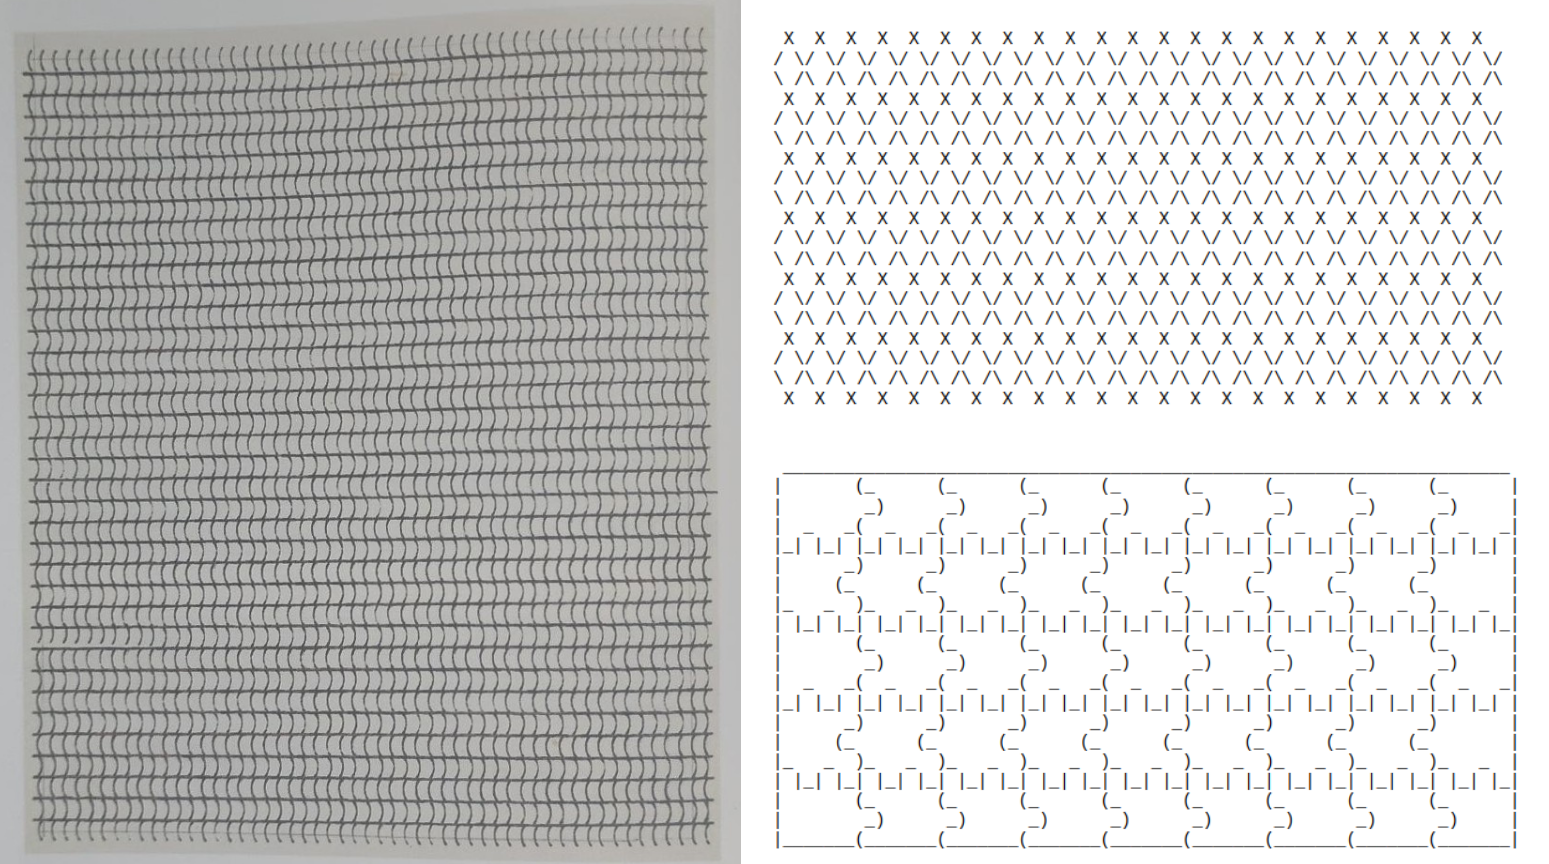
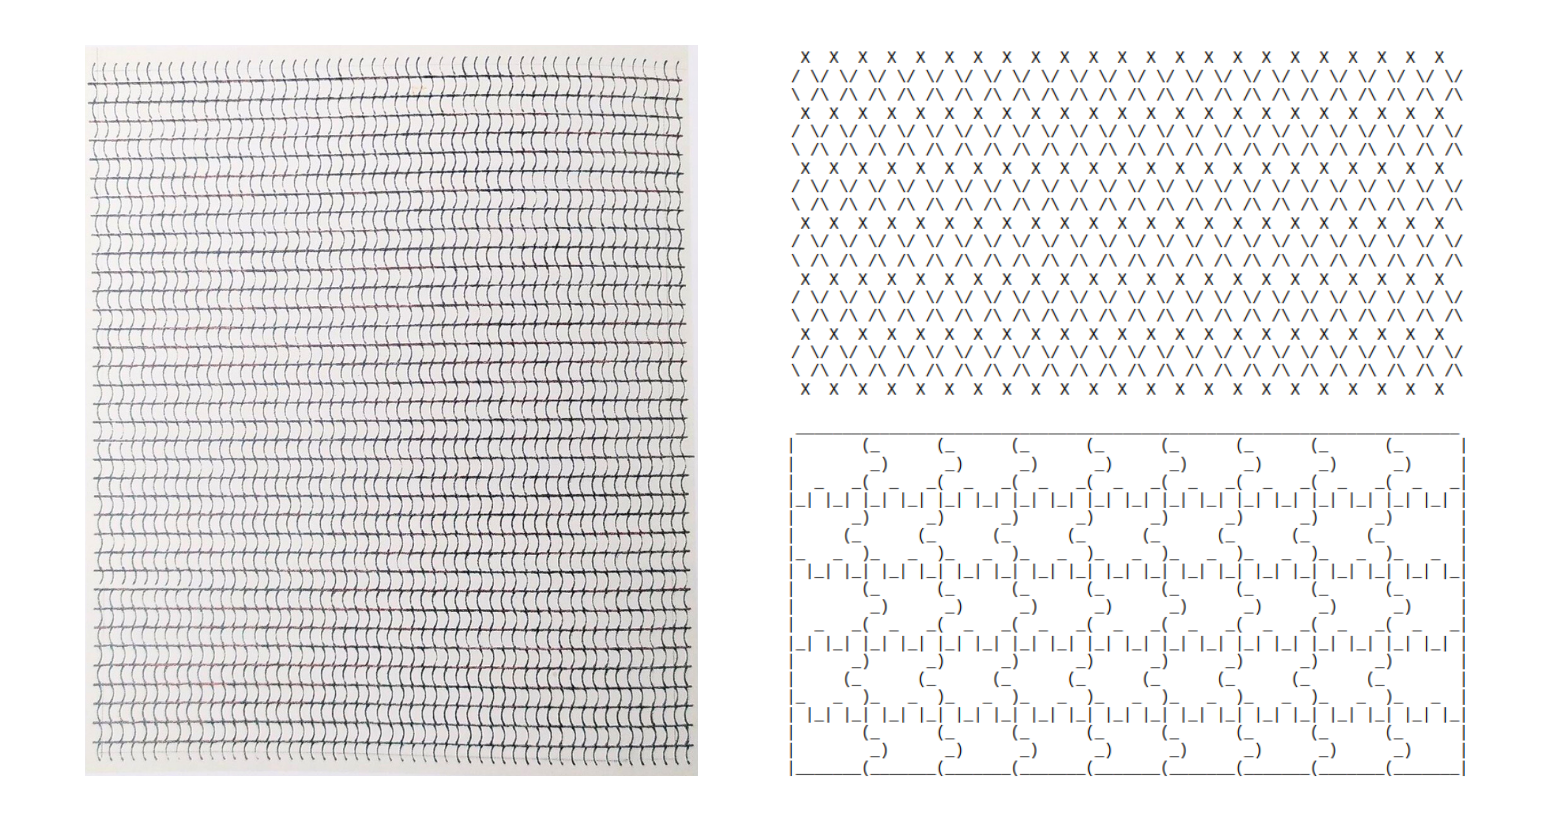
gestion corrections et figures

diff --git a/exSynth/cadreTheorique.md b/exSynth/cadreTheorique.md
@@ -1,0 +1,59 @@
+
+
+# Cadre théorique
+
+Le cadre théorique que j’emploierai pour penser l’artisanat comme une technologie et la technologie comme une forme d’artisanat est centré sur la pensée textile d’Anni Albers ([Annexe 2: à propos d’Anni Albers](#anni-albers)). Publié pour la première fois en 1965, son éloquent essai intitulé *Du tissage* se situe à la charnière entre l’artisanat manuel et la fabrication mécanisée (*between handcraft and the machine-made*, [Princeteon university press 2017, s.p.](https://press.princeton.edu/books/hardcover/9780691177854/on-weaving)). Contrairement aux méthodes à un fil comme le tricot ou le crochet, le tissage nécessite un appareillage plus complexe : le métier à tisser. L’instrumentation de la création est un enjeu fondamental dans le tissage. Définie comme une « discipline artistique qui permet d’appréhender l’interrelation entre médium et processus à l’origine de la forme » (Albers 2021 [1965], 19), le tissage aide donc à réfléchir aux enjeux techniques et matériels de la création. La création avec un métier à tisser s’apparente à la création algorithmique pour plusieurs raisons.
+
+Tout d’abord, ce lien provient de la filiation directe entre le métier à tisser et l’ordinateur. « *The loom is the vangard site of software development* » (Plant 1995: 46). En tant que dispositif technique qui gère des centaines voire des milliers de fils et leur entrecroisement, le métier à tisser « gère des données » depuis que l’humanité pratique le tissage, c’est-à-dire depuis 4500 ans, ou même 8000ans selon les estimations (Albers 2021 [1965], 21). Ce n’est pas à proprement parler l’automatisation du métier à tisser qui en fait l’ancêtre de l’ordinateur, mais la capacité à le programmer, dans le cas du métier Jacquard, par le biais de cartes perforées. On parvient ainsi à appliquer cette puissance de calcul (le *hardware*) à n’importe quel programme (*software*) – qu’il s’agisse de tisser un motif floral avec un métier à tisser ou un motif algébrique avec la machine analytique (Lovelace citée dans <!--citée par Morrisson et Morrisson, cités dans Plant 1995: 50-->). En effet, le métier à tisser et l’ordinateur suivent le même procédé technique pour former une image. Que ce soit en définissant le pixel ou le croisement entre la chaîne et la trame, les deux dispositifs construisent une image point par point. En tant que non-tisserande, la lecture d’Anni Albers m’a révélé à quel point « les œuvres tissées sont des espaces de règles, de codes, et d’information. Elles procèdent en réalité d’opérations logiques répétées, de processus structurels, et relèvent tout autant d’une pratique d’ingénierie mécanique que du domaine artistique. » (Soulard 2021, 260). 
+
+*figure*
+
+Les diagramme de notations (figure **XX**) attestent de la logique binaire du métier à tisser. « Le diagramme permet au tisserand d’encoder et de décoder (ou de consigner et de lire) le processus de fabrication » (Smith 2021, 251). On comprend ainsi que le·a tisserand·e produit des « images programmées » (Soulard 2021, 260). L’ « analyse empirique du médium » (Smith 2021, 247) du tissage effectuée par Anni Albers s’étend ainsi aux fondamentaux de l’informatique et elle s’avère précieuse pour penser les pratiques algorithmiques (Soulard 2021, 268).
+
+Ensuite, en termes de démarche artistique, ce lien entre les « images programmées » et la création algorithmique est facilitée en prenant en considération le travail de Vera Molnar ([Annexe : à propos de Vera Molnar](#vera-molnar)). Une génération après Anni Albers, Vera Molnar participe elle aussi « à ce jeu de va-et-vient permanent entre une pratique manuelle, presque artisanale, et une utilisation opportuniste de l’outil technologique » (Grasser-Fulchéri et Bouiller 2021, 8). Face au coût d’accès à un véritable ordinateur dans les années 1960, Vera Molnar emploie une méthode expérimentale qu’elle nomme « machine imaginaire » pour simuler la création avec une machine.
+
+> Sa] démarche esthétique […], à l’instar de la démarche scientifique, se fonde sur cette notion de « prévision », dont son usage du protocole programmatique à l’aide de la « machine imaginaire » est l’expression la plus convaincante puisque programmer, c’est « prévoir » les éventualités d’apparition des formes avant même de pouvoir les « voir ».
+>
+> (Baby 2021, 45). 
+
+Vera Molnar est également l’autrice d’un court essai intitulé *Éloge de l’ordinateur (dans les arts visuels)* daté de 1984. Ce dernier se rapproche d’une philosophie de l’art qui distingue les peintres de « coloration spiritualiste » des « matérialistes » selon leur attitude envers l’outillage et la partie technique de leur travail. Elle en vient ainsi à décrire sa démarche de création, se rangeant du côté des matérialistes, « [des] créateurs […] à considérer comme des chercheurs qui appréhendent leur art en tant qu’une des sciences humaines » (Molnar 1984, 2). Ainsi, Anni Albers et Vera Molnar théorisent, chacune à leur façon, le « faire » et, plus particulièrement, exposent les liens entre contraintes et libertés posées par la technicité dans leur processus de création. Elles se rapprochent toutes deux du modèle de « l’artiste-ingénieure […,] une figure qui permet de composer habilement avec les dialectiques technologique-artistique, individuel-universel, processus-produit et de rompre également avec la spécialisation des tâches tout en acceptant de participer au régime moderne de production » (Soulard 2021, 261). Leurs démarches semblent donc particulièrement aptes à fournir un cadre théorique à ma recherche-création.
+
+Finalement, lorsqu’Anni Albers annonce dans sa *Note d’introduction* qu’« en abordant les fondamentaux et les méthodes du textile, [son] souhait était de compter parmi [ses] lecteurs non seulement des tisserands mais toute personne dont le travail dans une autre discipline rejoint les enjeux du textile » (Albers 2021 [1965], 11), elle met l’accent le potentiel de sa pensée textile pour d’autres disciplines. Particulièrement dans le chapitre intitulé *La sensibilité tactile*, elle adresse les enjeux de la perception par le toucher et ses faculté formatrices (Albers 2021 [1965], 66-70). Anni Albers adopte ainsi une posture multidisciplinaire et expérimente, au-delà du métier à tisser, avec d’autres structures et textures qui pourraient enrichir le vocabulaire du langage tactile et augmenter notre sensibilité à l’expression tactile. Elle crée notamment des « illusions tactiles-textiles » (Albers 2021 [1965], 70) par la répétition de certaines lettres ou de certains caractères typographiques avec une machine à écrire (figure **xxx**).
+
+
+
+Comme le relève la chercheuse en artisanat T’ai Smith, « *textile is a rule-based art […] To create a new pattern means to elaborate a set of rules, and a new pattern appears with a change within the rule* » (« *Textile, A Diagonal Abstraction: Glass Bead in conversation with T’ai Smith* » , p. 6) . On peut ainsi considérer certaines pratiques du *ASCII-art*[1](#sdfootnote1sym), par exemple les motifs documentés dans la [*ASCII Art Archive*](https://www.asciiart.eu/art-and-design/patterns), comme des pratiques qui s’apparentent à la pensée textile (). Et ces pratiques se prêtent particulièrement bien à la création algorithmique, où l’algorithme effectue le travail répétitif et génératif qui crée le motif ().
+
+
+
+
+
+Ce cadre théorique, fondé sur l’idée de *faire,* entre textilité et algorithmique, sera également « épaissi »  par l’apport de plusieurs chercheur·se·s, en premier lieu par le travail de l’anthropologue Tim Ingold. Son ouvrage intitulé « Faire : anthropologie, archéologie, art et architecture » (2017 [2013]) s’arrime élégamment avec les réflexions sur l’enseignement par la pratique et l’apprentissage par le travail manuel prônées par Anni Albers (relevées notamment dans Soulard 2021, 259). Tim Ingold a également publié *Une brève histoire des lignes* (2013 [2007]), dont l’approche transdisciplinaire fondée sur une anthropologie moderne enrichit l’analyse des traces, des lignes et des surfaces, ainsi que des formes de notation. Dans un essai intitulé *The textility of making* (2013), il contribue aux discussions actuelles sur l’art et la technologie en mettant l’accent sur l’agentivité de la matière dans la forme et la formation des choses. Si, dans ce texte, sa référence à la textilité et à la pratique du tissage est davantage figurative que littérale, Tim Ingold y aborde bien la distinction entre l’artisanat et la technologie en comparant le dessin (architectural) et la charpenterie.
+
+Pour compléter cette réflexion sur le *faire*, j’emprunterai également aux réflexions philosophiques et techniques de Gilbert Simondon et son ouvrage de référence *Du mode d’existence des objets techniques* (2012 [1958]) ainsi qu’à celles de Marcello Vitali-Rosati pour son analyse contemporaine de nos relations actuelles avec la technologie dans son *Éloge du bug* (2024). Le *faire* étant également situé, au sens des savoirs situés de Donna Harraway (1988), je m’inspirerai des approches développées dans *Feminist in a software lab* (McPherson 2018), *Data Feminism* (D’Ignazio et Klein, 2020) et *Glitch Feminism* (Russell, 2020) pour trouver des manières de situer ma pratique de recherche-création. Je pense ainsi pouvoir contribuer aux enjeux soulevés par Berger et a. lorsqu’iels demandent « *how digital humanities* [ou la recherche-création] *can integrate data physicalization into the research process and how data physicalization is a form of critical making* » (Berger et al., 2024, pp. -)
+
+[1](#sdfootnote1anc)Le *ASCII art* est une forme d’art ou de design créé uniquement à partir des caractères présents dans le standard d’encodage [ASCII](https://fr.wikipedia.org/wiki/American_Standard_Code_for_Information_Interchange).
+
+
+
+
+
+
+
+
+
+
+
+
+
+Je considère l’apport théorique de cet ouvrage pour ma recherche-création sous trois angles: 
+
+*Les principes de la construction textile dégagés par Anni Albers seront les points de départ d’une réflexion sur les*
+
+* manières de faire, des techniques aux matériaux
+* schémas et aux systèmes de notation
+* du design à la production de récits tactiles
+
+### 
+
+medium : Reconnaître en la matière son potentiel et ses limites peut également nous aider à préciser la notion de médium artistique lorsque ce dernier est immatériel. (Albers citée par Smith 2021, 241)

diff --git a/exSynth/figures.md b/exSynth/figures.md
@@ -1,0 +1,44 @@
+1. Capture d’écran d’une recherche dans le [MACrépertoire](https://macrepertoire.macm.org/), le portail d’accès web à la collection du Musée d’art contemporain de Montréal, février 2025.
+
+2. Nombres d'acquisitions d'œuvres d'artistes-femmes et d'œuvres d'artistes-hommes par année (1964-2020), version simplifiée (sans les sélecteurs), Desmorat et MK, 2024
+   Export de la visualisation interactive disponible [en ligne](https://observablehq.com/d/6fe5c5f7946b79ce#graphiqueBarres)
+
+3. Chronologie des œuvres de la collection du MAC, vue de 1990 à 2023, MK, 2024
+   Export de la visualisation interactive disponible [en ligne](https://observablehq.com/@lenamk/experimentations-visuelles-avec-les-donnees-du-mac?collection=@lenamk/exsynth)
+
+4. Chronologie des œuvres de la collection du MAC, vue de par année de production, MK, 2024
+   Export de la visualisation interactive disponible [en ligne](https://observablehq.com/@lenamk/experimentations-visuelles-avec-les-donnees-du-mac?collection=@lenamk/exsynth)
+
+5. Chronologie des œuvres de la collection du MAC, vue de par année de production (sans les années vides), MK, 2024
+   Export de la visualisation interactive disponible [en ligne](https://observablehq.com/@lenamk/experimentations-visuelles-avec-les-donnees-du-mac?collection=@lenamk/exsynth)
+
+6. *The Life of a Building*, Greta Grip et Lee Jones, 2021-2022
+
+7. *Strata*, Olivia Whetung, 2018-2024
+
+8. *Gaza Thob Collar*, Maya Amer, 2023
+
+9. *To Make One Particle* (détail), Pansee Atta, 2025. Publiée par l’artiste sur Instagram
+
+10. *Schéma avec méthode de croquis. Armure toile*. Anni Albers. Josef and Anni Albers Foundation.
+
+11. À gauche: *Étude réalisée à la machine à écrire*, Anni Albers, date non renseignée. Impression à la machine à écrire en encre noire sur papier collé sur panneau, 27x16.8cm. Josef and Anni Albers Foundation.
+
+    À droite: Deux motifs de la galerie d’art ASCII, sans auteur·rice documenté·e, date non renseignée
+
+12. *_( Anni Albers )_*, série « Playing with Anni Albers » inspirée des études à la machine à écrire d’Anni Albers, Lena MK, 2025
+
+
+
+
+
+
+
+
+
+
+
+Annexes
+
+1. Protocole
+2. 
